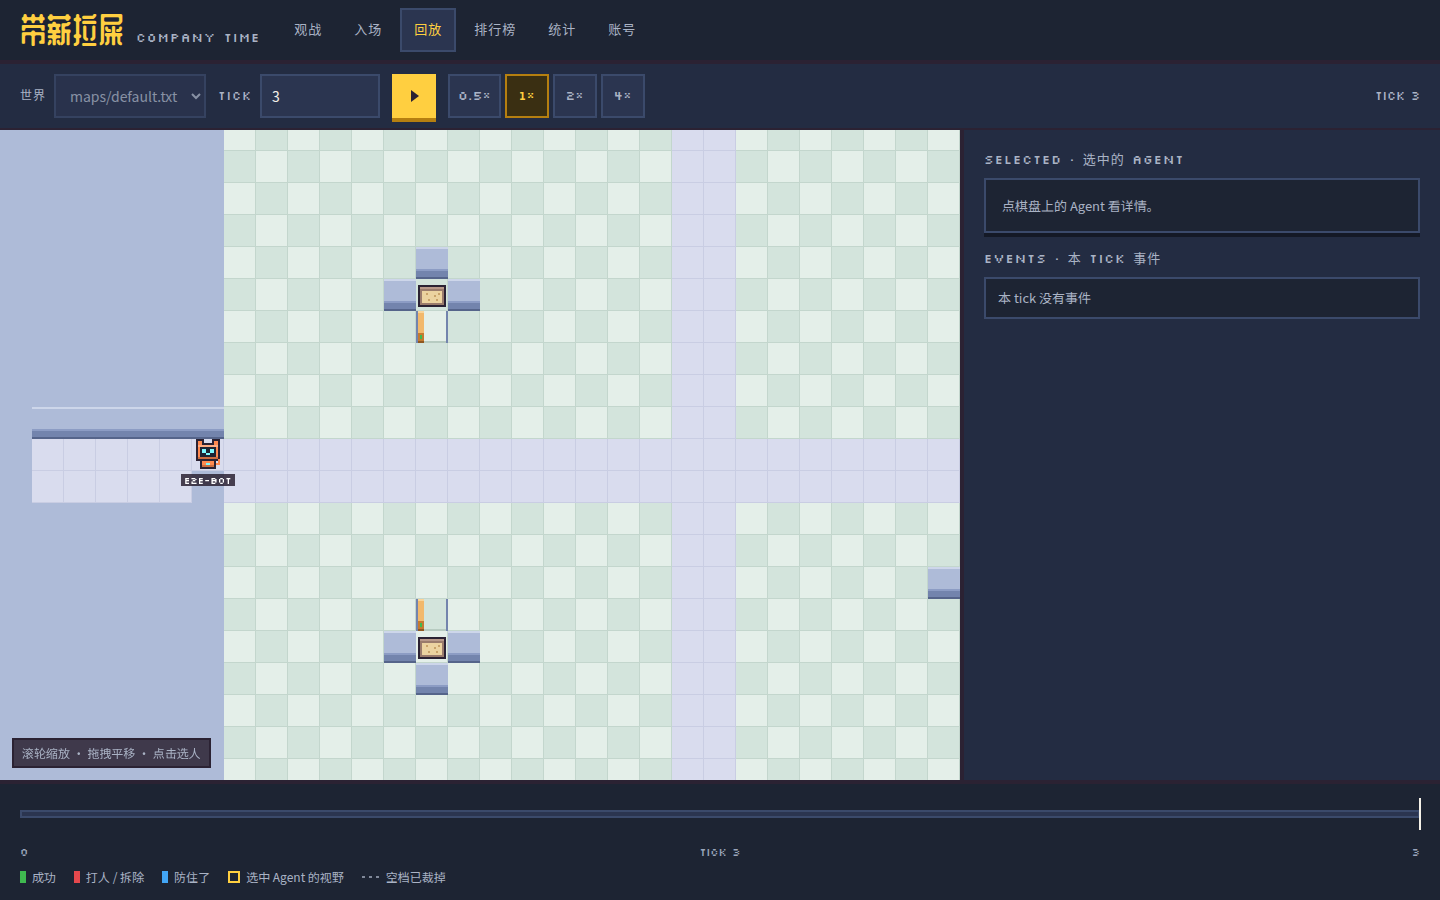
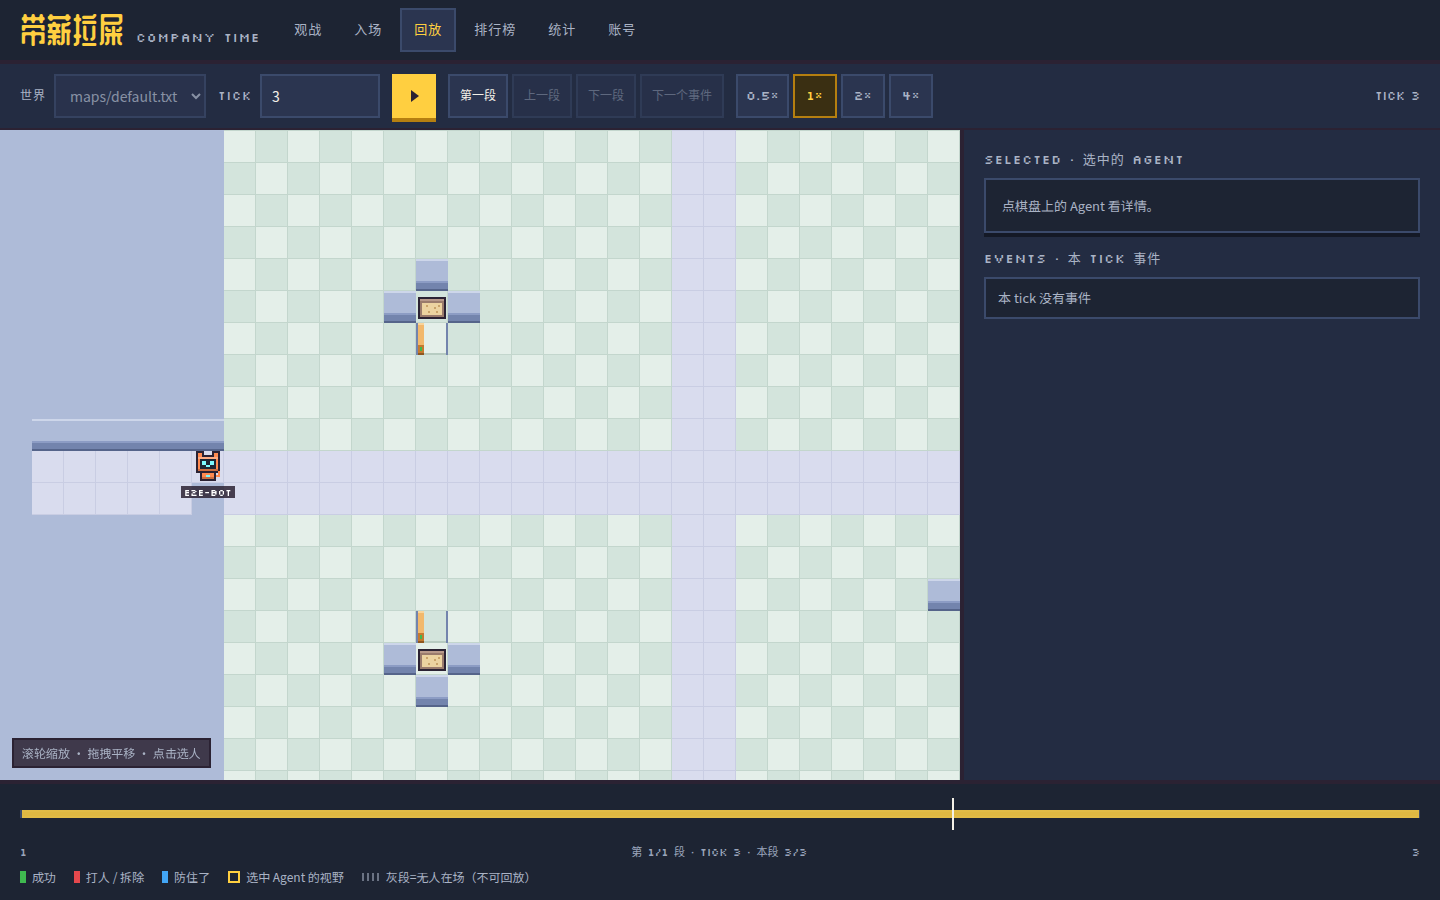
docs(screenshots): replay shots for span-only playback

diff --git a/docs/screenshots/README.md b/docs/screenshots/README.md
@@ -14,9 +14,11 @@
 | `leaderboard-mixed-1440.png` | 1440×900 | 72 | `/leaderboard?kind=mixed`：`e2e-human`（`236`，带「人」标记）与 `e2e-ai`（型号 `E2E`，`0`）。 |
 | `stats-kinds-1440.png` | 1440×900 | 72 | `/stats` 切到「有另一类在场」：总会话 `4`、成功率 `25%`；人 1 角色/3 会话/1 成功、33.3%、累计 236；AI 1 角色/1 会话/0 成功、型号 `E2E`。 |
 | `spectator-human-badge-1440.png` | 1440×900 | 5 | `/` 观战页点选人类：`E2E-HUMAN` 在 `(7,15)`，卡片标题旁有「人」标记、正文标签是「本人在玩」；CLI `E2E-AI` 在 `(6,15)`，右侧选中面板显示坐标与 `人 · 视野 9×9`。 |
-| `home-empty-1440.png` | 1440×900 | 2 | 空数据库的 `/`：没有「回放」徽标，右上角是 `LIVE`，`在场 0/12`；`/api/timeline` 没有高光标记，事件流只有开局三个自动关门的门事件。 |
-| `replay-empty-1440.png` | 1440×900 | 4（回放帧；实时 10） | 场内没人后的自动回放：棋盘左上角「回放」徽标、右上角状态也是「回放」，`TICK 4` 来自 `/api/projection?tick=4`；窗口是 `[0, 8]`（最近高光是 tick 8 建成墙后又被拆掉），事件流是回放帧里 `k2-ai` 走向 `(7,15)` 的那几步。 |
-| `replay-back-live-1440.png` | 1440×900 | 11 | 第二个 Agent `k2-ai-2` 在 tick 10 之后 `join`，页面在 1 个 tick（278 ms）内退出回放：徽标消失、右上角回到 `LIVE`、选中面板显示 `k2-ai-2`，`在场 1/12`。 |
+| `home-empty-1440.png` | 1440×900 | 3 | 空数据库的 `/`：没有「回放」徽标，右上角是 `LIVE`，`在场 0/12`；`/api/timeline` 没有高光标记、也没有可回放区间，事件流只有开局三个自动关门的门事件。同一刻的 `/replay` 只写「没有可回放的区间」，不画轨道，「播放」禁用、tick 输入仍可用。 |
+| `replay-empty-1440.png` | 1440×900 | 3（回放帧；实时 12） | 场内没人后 `/` 的自动回放：循环最后一段可回放区间 `[3, 8]`（`k2-ai` 从入场到离场），4 tick/s；`TICK 3` 就是这段的第一个 tick，播到 8 之后回到 3，不会跳进空 tick。棋盘左上角「回放」徽标、右上角状态也是「回放」，事件流是回放帧里的入场与需求。 |
+| `replay-back-live-1440.png` | 1440×900 | 13 | 第二个 Agent `k2-ai-2` 在 tick 12 `join`，页面在 1 个 tick（170 ms）内退出回放：徽标消失、右上角状态回到 `live`、选中面板显示 `k2-ai-2`，`在场 1/12`。 |
+| `replay-1440.png` | 1440×900 | 3 | `scripts/e2e-full.sh`（端口 18086、1 秒/tick）的 `/replay?tick=3`：这一刻只有一段可回放区间 `[1, 3]`，轨道是一块金色实心段，标签 `第 1/1 段 · TICK 3 · 本段 3/3`，左右端读 `1` / `3`；`上一段`、`下一段` 因为只有一段而禁用。 |
+| `replay-spans-1440.png` | 1440×900 | 3 | 同一个 `/replay` 的分段轨道：两段可回放区间 `[3, 8]` 与 `[12, 13]`（9–11 无人），画成两块金色实心段、段间 3px 缝隙，红色 demolish 高光落在第一段末尾；按「第一段」后 tick 跳到 3，标签 `第 1/2 段 · TICK 3 · 本段 1/6`，左右端读 `3` / `13`，指针停在这段开头，`上一段` 禁用。 |
 
 ## 说明
 
@@ -25,5 +27,6 @@
 - 棋盘下方那条常驻「待结算动作」条由键盘、方向键与点格菜单共用一条提交路径（`web/src/pages/Play.tsx` 的 `runAction`），按 `error`（红）> 正在执行（`--defend` 蓝）> 已提交待结算（`--gold` 金黄）> 「没有待执行动作」的优先级显示；`play-1440.png` 抓的是 `pending`，`play-pending-390.png` 单独固定 `pending`，`play-390.png` 恰好抓到 `rejected`（脚本走位快于令牌桶），下一个 tick 后会变成 `executing` 或空态。
 - 人类第二局在 tick 138 时 `e2e-ai` 的会话已因 deadline 结束，所以 390 的棋盘只画人类；混合统计仍来自第一局成功会话与 `e2e-ai` 会话的重叠区间。
 - 其它目录里的截图（`account-*`、`spectator-*`、`replay-*`、`profile-*` 等）由 `scripts/e2e-full.sh` 和性能脚本产生，不在本组 `/play` 场景里。
-- `home-empty-1440.png`、`replay-empty-1440.png`、`replay-back-live-1440.png` 来自 `scripts/e2e-k.sh`（`web/e2e/onboarding.mjs`，端口 18143、0.5 秒/tick、空数据目录）：账号 `k2-e2e`，CLI Agent `k2-ai` 建墙再拆墙后离场，第二个 Agent `k2-ai-2` 再入场。
+- `home-empty-1440.png`、`replay-empty-1440.png`、`replay-back-live-1440.png`、`replay-spans-1440.png` 来自 `scripts/e2e-k.sh`（`web/e2e/onboarding.mjs`，端口 18143、0.5 秒/tick、空数据目录）：账号 `k2-e2e`，CLI Agent `k2-ai` 建墙再拆墙后离场，第二个 Agent `k2-ai-2` 再入场；`replay-1440.png` 来自 `scripts/e2e-full.sh`（端口 18086、1 秒/tick）。
+- `/replay` 的时间轴只铺可回放的 tick：`/api/timeline` 的 `spans` 决定轨道，每个可回放 tick 占一个位置，区间之间是 3px 缝隙；指针位置是当前 tick 的累计偏移，点击/拖动按偏移 seek，左右键移到相邻可回放 tick（跨段直接到下一段开头或上一段末尾），播放每次前进一个可回放 tick 并在最后一段播完时停下。
 - `stats-prompt-1440.png` 来自 Master 的验收（端口 18147，数据目录由 `scripts/e2e-k.sh` 那一局拷来，再加一个装了摸鱼提示的账号 `k-stats-b`）：`/stats` 上「摸鱼提示」这一组切到「装了提示」，总会话 `1`；另两组标签「全部 / 装了提示 / 没装提示」与上面的「全部会话 / 有另一类在场」是各自独立的选择器。
